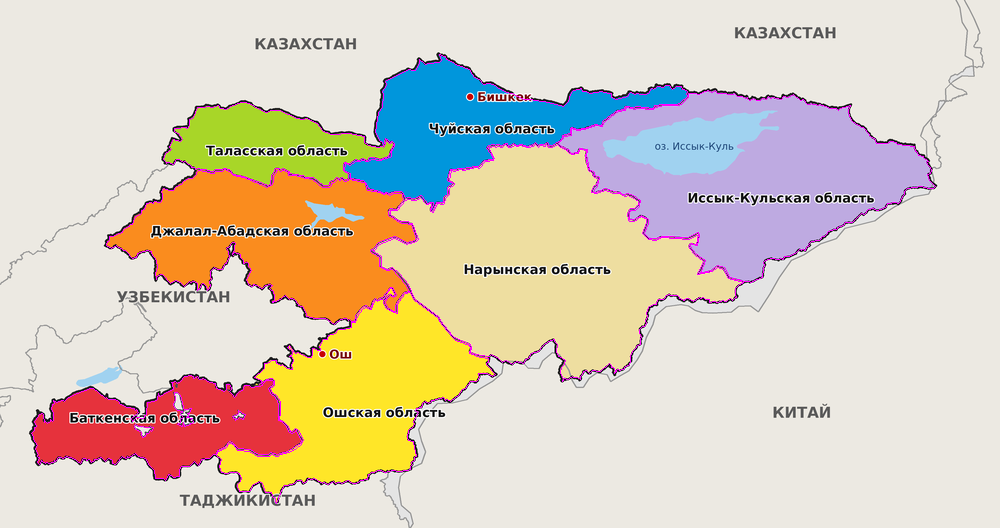
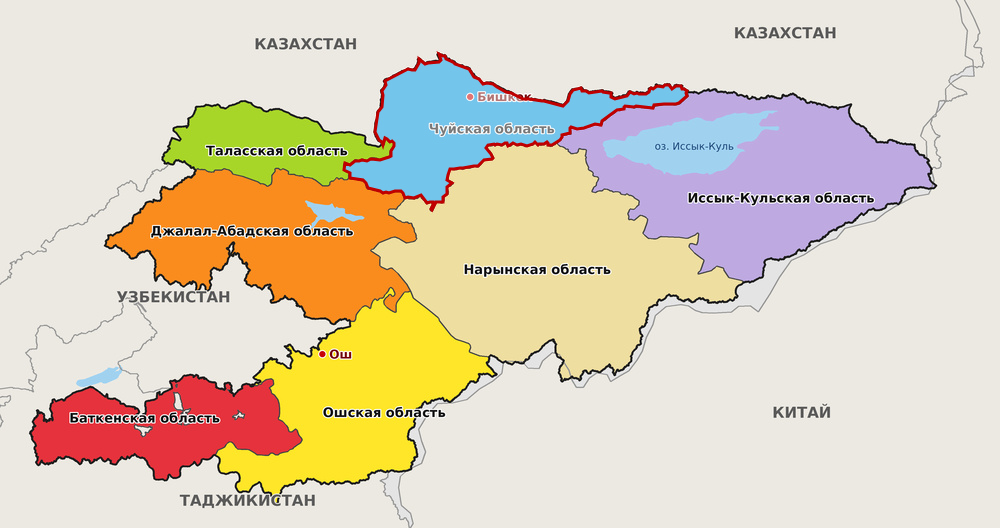
Task 6: highlight oblast outline on hover (canvas), remove extra explanatory text; screenshots

diff --git a/lab2/karta.html b/lab2/karta.html
@@ -4,10 +4,8 @@
 	</head>
 	<body bgcolor="#FFFFFF" text="#1A1A2E" link="#1E4FA0">
 		<h2 align="center"><font color="#1E4FA0" face="Arial">Карта Кыргызской Республики: кликабельные области</font></h2>
-		<p align="center"><font size="2"><i>Наведите указатель мыши на любую область &mdash; появится её название.
-		Переход по областям не выполняется (атрибут nohref).</i></font></p>
-
 		<p align="center">
+		<span style="position: relative; display: inline-block;">
 			<img src="images/karta.jpg" width="1000" height="528" usemap="#oblasti" border="0"
 				alt="Карта Кыргызстана с областями" title="Карта Кыргызстана">
 			<map name="oblasti">
@@ -22,6 +20,8 @@
 				<area shape="poly" coords="216,455,221,459,219,466,221,472,226,473,232,472,236,472,239,473,241,478,240,481,237,484,237,487,239,491,243,491,249,491,252,485,259,481,262,483,265,492,271,492,272,496,275,498,275,502,276,503,282,488,284,485,287,485,294,483,297,480,301,480,303,483,305,482,308,478,312,479,314,478,322,483,324,482,328,484,333,481,335,483,339,482,342,483,348,480,352,483,355,483,358,482,360,480,367,479,368,474,369,474,371,472,374,472,378,470,381,470,385,472,392,470,399,471,407,470,410,469,410,466,412,464,411,462,414,460,414,457,416,456,413,442,413,441,408,440,407,437,408,430,413,426,414,423,413,421,418,412,415,410,416,408,421,407,422,403,425,401,428,403,430,402,431,400,433,400,443,397,445,400,447,399,450,401,458,395,462,389,465,388,470,381,476,381,479,377,478,373,487,373,492,376,495,374,487,365,486,363,488,362,488,358,480,357,469,353,470,347,469,345,455,340,452,337,439,321,438,318,413,299,410,292,405,293,398,302,397,305,397,313,393,312,386,308,384,305,383,301,389,294,391,294,393,296,394,294,392,289,390,288,383,299,380,299,377,301,375,300,374,301,371,309,369,309,366,307,363,308,357,316,356,320,355,322,351,322,351,327,343,329,338,329,335,333,328,335,327,339,323,339,319,346,320,350,318,350,313,348,312,348,312,355,311,357,307,357,298,352,295,353,289,345,288,347,287,347,292,351,292,354,289,356,291,356,293,360,291,365,292,369,287,368,282,364,281,365,276,363,276,360,271,360,267,363,264,363,264,368,254,377,261,380,261,382,259,384,261,383,266,379,272,378,274,380,274,385,270,388,272,393,275,394,279,399,280,403,280,413,279,419,283,421,287,425,290,431,292,431,295,428,298,430,303,440,301,444,293,450,288,452,280,454,278,456,275,456,271,454,269,456,265,456,257,456,249,451,237,450,233,444,229,443,225,448,218,451" nohref title="Ошская область" alt="Ошская область">
 				<area shape="poly" coords="31,433,33,436,33,439,37,445,35,449,38,454,37,456,39,457,37,462,39,464,41,460,45,463,47,462,48,463,53,462,54,460,55,461,58,457,60,457,63,458,66,456,73,458,80,463,83,458,85,458,86,460,89,459,91,462,93,461,94,459,96,459,101,457,105,461,108,458,109,458,112,460,112,463,115,464,122,456,126,458,127,456,129,457,135,453,138,456,145,458,149,465,154,470,155,478,163,478,165,480,166,479,168,474,171,475,173,477,179,476,179,469,181,466,189,466,194,461,198,465,200,462,201,459,209,458,213,454,215,454,217,450,224,447,229,441,232,442,238,448,250,449,258,454,268,454,270,452,278,454,280,453,287,451,300,443,301,440,296,430,292,433,289,432,286,426,282,422,278,420,278,404,277,400,274,396,271,394,268,388,273,384,273,381,271,380,266,380,263,383,262,385,258,386,251,387,249,385,246,385,244,385,243,389,239,391,234,397,232,394,229,391,231,389,231,387,229,384,226,384,226,389,224,391,216,388,215,383,209,382,203,378,199,379,197,376,193,378,193,377,193,376,190,375,184,376,180,381,177,383,175,381,171,382,172,384,173,389,164,393,162,395,159,396,158,393,157,399,154,401,147,402,146,414,144,415,144,417,142,418,136,417,132,421,131,418,138,412,136,409,135,410,134,408,126,407,123,405,120,404,119,402,115,399,108,399,106,397,105,398,93,388,90,388,74,394,67,398,64,401,62,400,56,402,53,400,54,403,52,404,51,409,53,413,53,420,52,421,50,419,50,421,47,423,45,421,44,422,43,414,41,413,39,414,38,416,34,421,36,426,34,427,34,430" nohref title="Баткенская область" alt="Баткенская область">
 			</map>
+			<canvas id="podsvetka" width="1000" height="528" style="position: absolute; left: 0; top: 0; pointer-events: none;"></canvas>
+		</span>
 		</p>
 
 		<h3>Области на карте</h3>
@@ -34,14 +34,33 @@
 			<li>Ошская область &mdash; центр г. Ош</li>
 			<li>Баткенская область &mdash; центр г. Баткен</li>
 		</ol>
-		<p align="justify">Каждая область обведена отдельной кликабельной областью <b>shape="poly"</b>:
-		координаты подобраны по контуру области и не выходят за линию границы.
-		Все области описаны с атрибутом <b>nohref</b>, поэтому переход на другие страницы не происходит,
-		а атрибут <b>title</b> показывает название области во всплывающей подсказке.
-		Анклавы соседних государств внутри Баткенской области описаны отдельными областями и стоят в коде первыми,
-		поэтому при наведении на них показывается название соседней страны, а не области.</p>
-		<p align="center"><font size="2">Границы областей: geoBoundaries / OpenStreetMap (лицензия ODbL), озёра: Natural Earth.</font></p>
 
 		<p align="center"><a href="home.html">На главную</a> | <a href="menu.html">Картинка-меню</a></p>
+		<!-- Подсветка области при наведении -->
+		<script>
+			var canvas = document.getElementById("podsvetka");
+			var ctx = canvas.getContext("2d");
+			var areas = document.getElementsByTagName("area");
+			for (var i = 0; i < areas.length; i++) {
+				areas[i].onmouseover = function () {
+					var c = this.coords.split(",");
+					ctx.clearRect(0, 0, canvas.width, canvas.height);
+					ctx.beginPath();
+					ctx.moveTo(c[0], c[1]);
+					for (var j = 2; j < c.length; j += 2) {
+						ctx.lineTo(c[j], c[j + 1]);
+					}
+					ctx.closePath();
+					ctx.fillStyle = "rgba(255, 255, 255, 0.45)";
+					ctx.fill();
+					ctx.lineWidth = 3;
+					ctx.strokeStyle = "#C00000";
+					ctx.stroke();
+				};
+				areas[i].onmouseout = function () {
+					ctx.clearRect(0, 0, canvas.width, canvas.height);
+				};
+			}
+		</script>
 	</body>
 </html>
